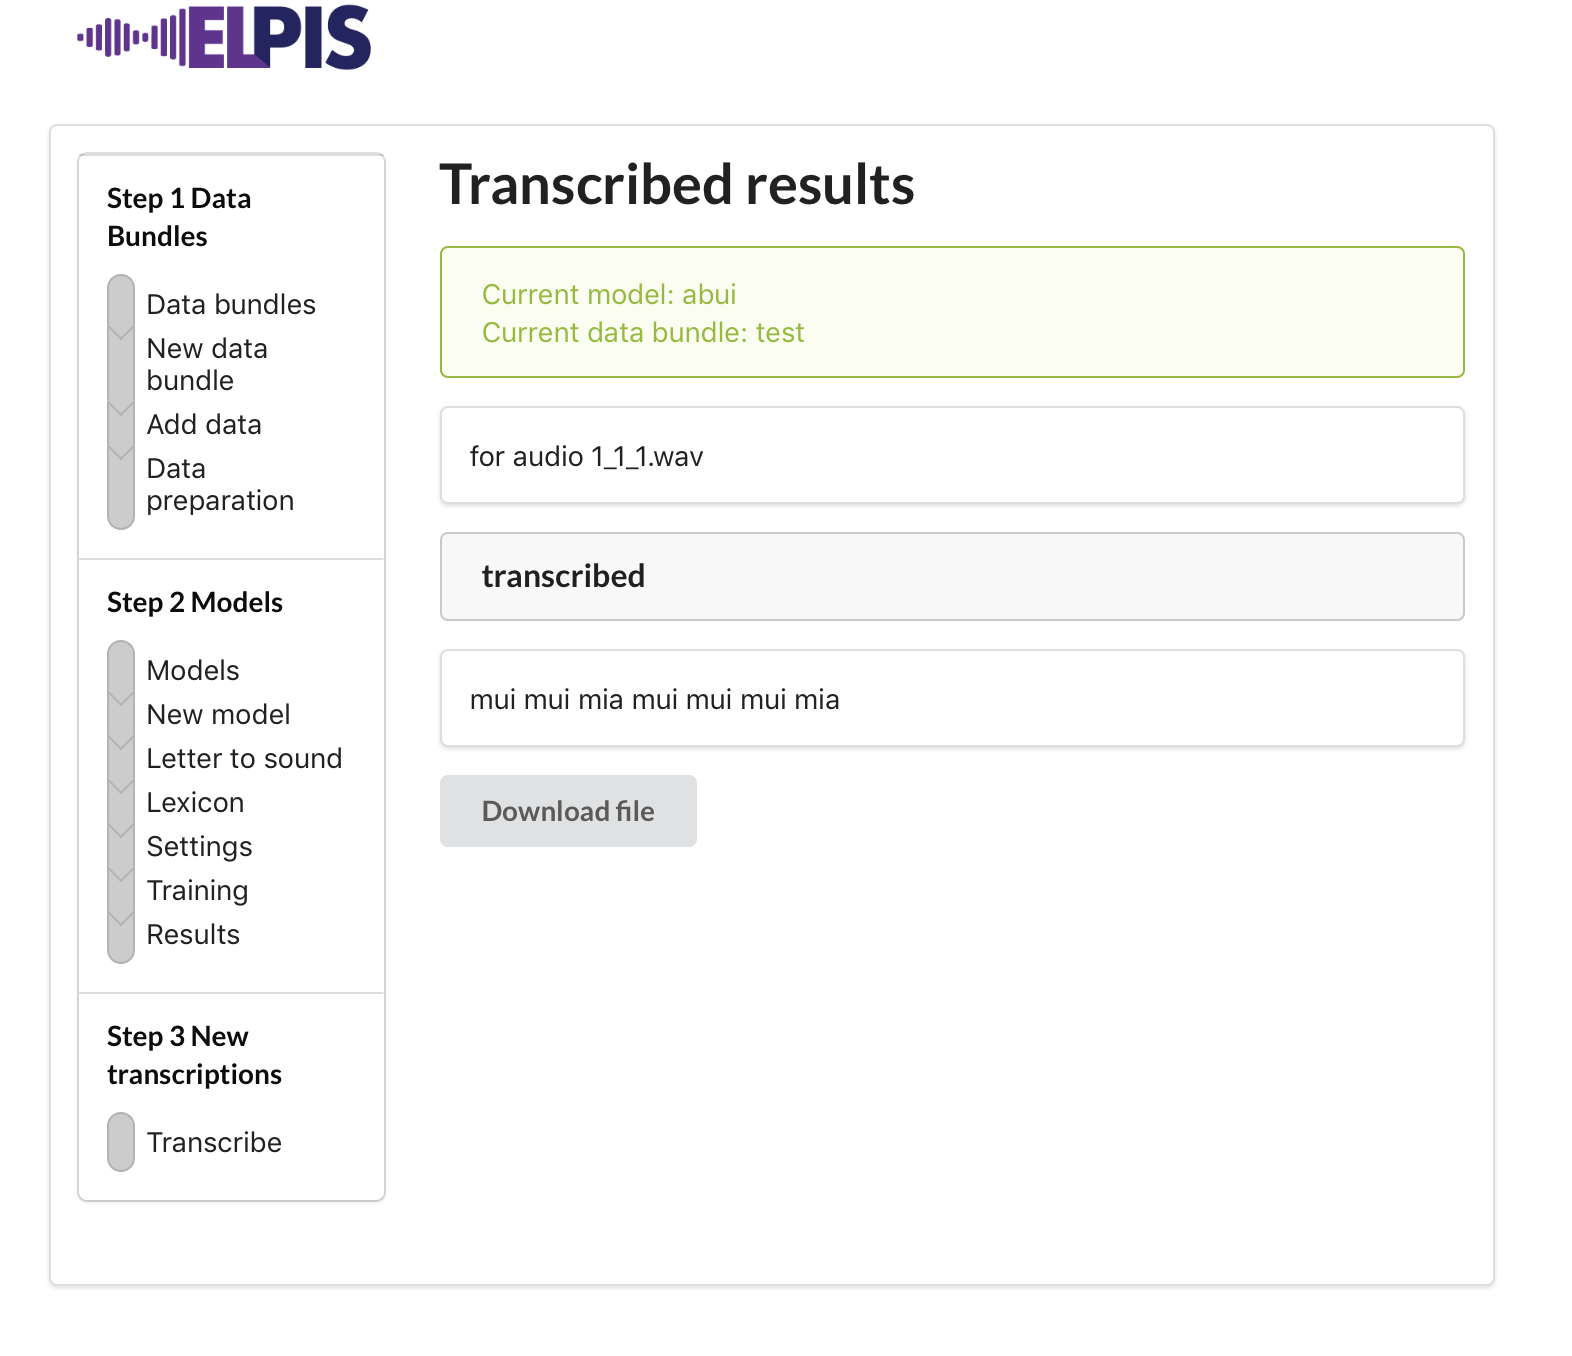
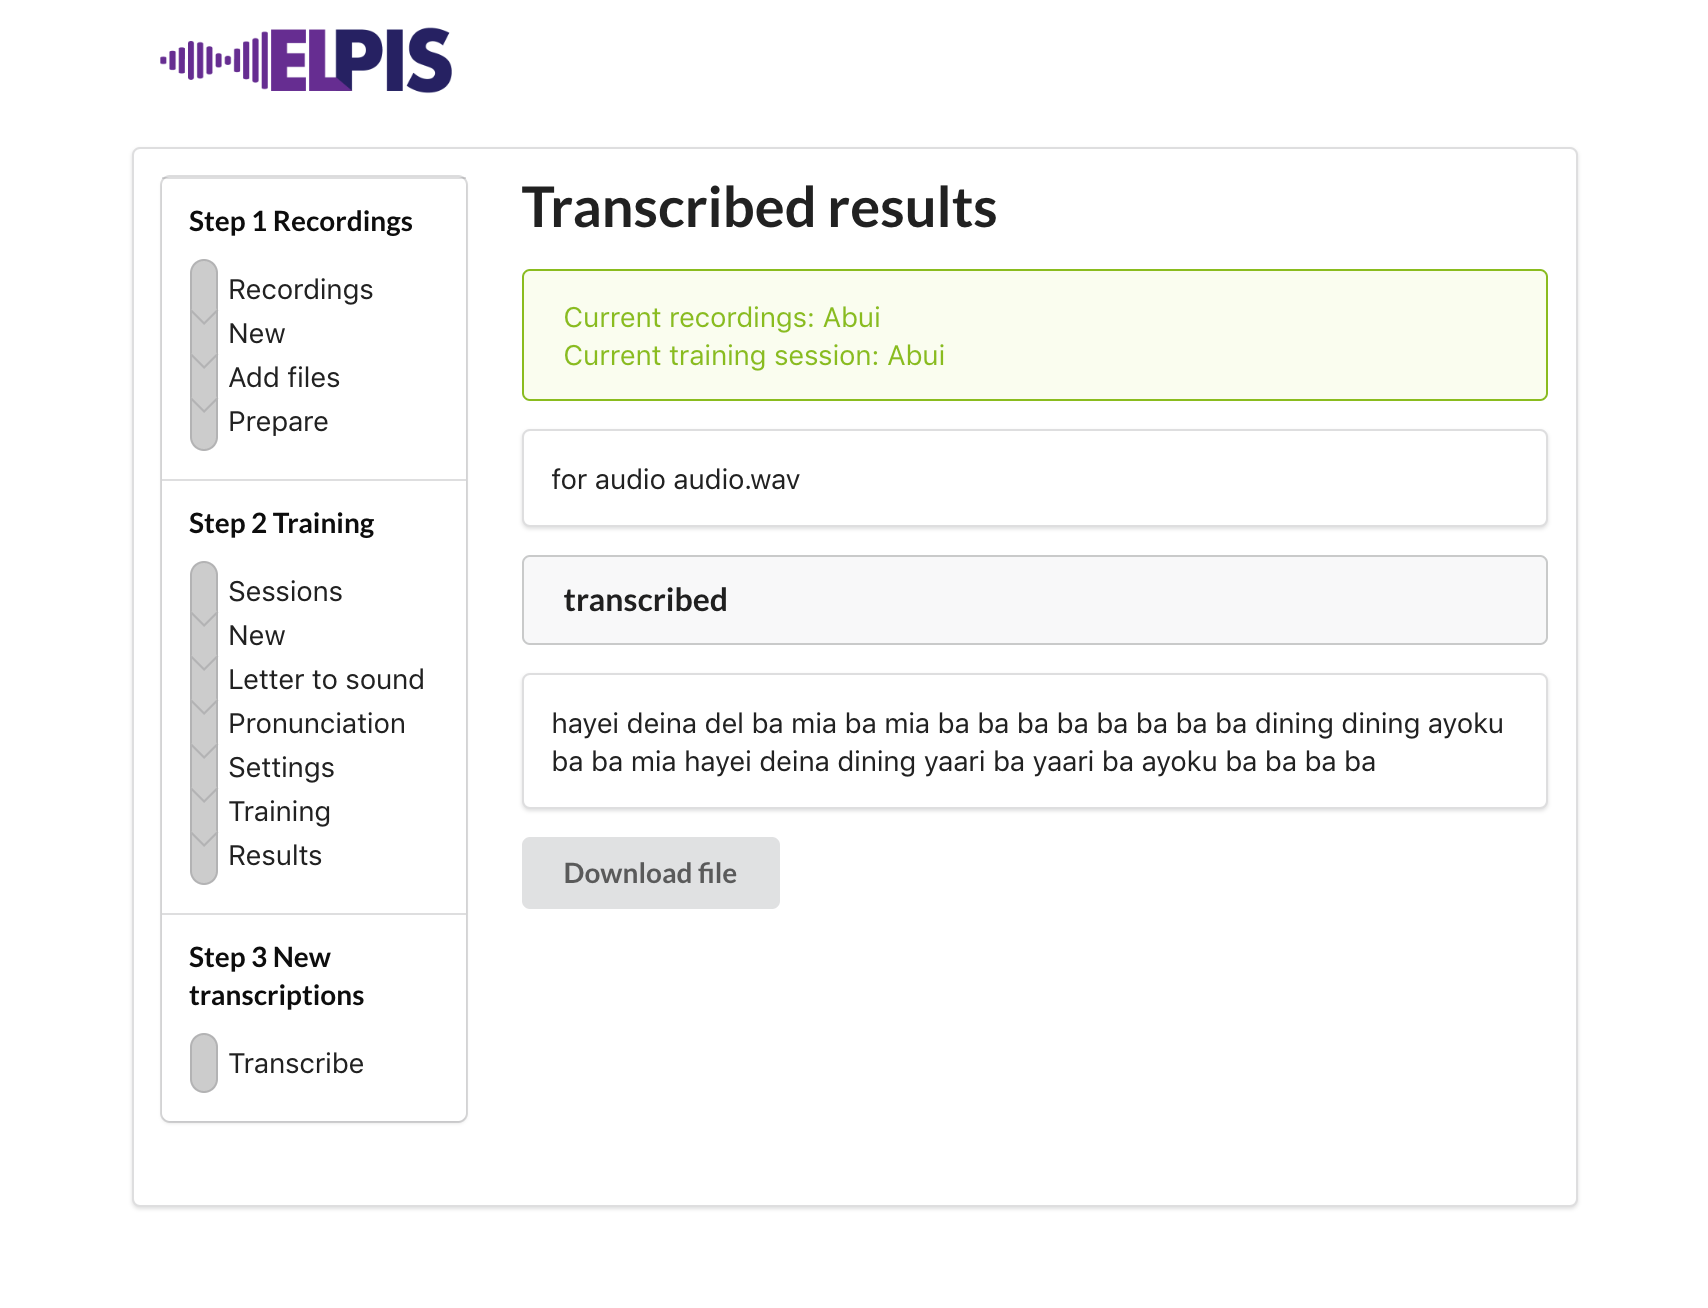
update lingo

diff --git a/2019-Puliima-Workshop.md b/2019-Puliima-Workshop.md
@@ -1,103 +1,95 @@
-## Overview
+# Overview
+
 The speech recognition (also called Speech to Text) process broadly involves steps of:
 
-**Organising data** that will be used to train the system
+- Organising files that will be used to train the system
+- Cleaning files
+- Making pronunciation rules
+- Acoustic, pronunciation and language training
 
-**Cleaning data** (normalisation)
+Then, using the trained system we can get a new transcription on un-transcribed recordings.
 
-Making **pronunciation rules**
-
-**Training** acoustic, pronunciation and language models
-
-Then, using these models to get a **new transcription** on un-transcribed data.
-
-
-Models are descriptions of the language content that the system can use to interpret audio that it hasn't heard before.
-
-> If you run the Docker version of Elpis, the processing all happens on your local computer, no data is uploaded to cloud servers. It is safe to use where your ethics or permissions prevent sharing or uploading your data. For the workshop, to save time installing Elpis, we have prepared some "cloud servers" with Elpis running. Using one of these is easier to get started, but does require that your data is uploaded to the internet.
 
 ---
 
-## Setup
 
-### 1) Get some training files
+# Setup
 
-Start with downloading some "toy data" to use during the workshop. [Download the Abui toy corpus here.](https://elpis.net.au/abui.zip)
+## 1) Get some training files
 
-### 2) Run Elpis
+Start with downloading some files to use during the workshop. [Download the Abui files here.](https://elpis.net.au/abui.zip)
 
-Get an address from the workshop spreadsheet [click here](https://bit.ly/2HfDNua), open a new web browser (Chrome or Firefox), paste the address into the location bar and press Enter/Return to start Elpis.
+## 2) Run Elpis
 
-
-### 3) When Elpis starts it looks like this.
-We'll make it look a bit more welcoming soon!
+- Get an address from the workshop spreadsheet [click here](https://bit.ly/2HfDNua).
+- Open a new web browser (Chrome or Firefox).
+- Paste the address into the location bar.
+- Press Enter/Return to start Elpis.
+- When Elpis starts it looks like this.
 
 ![Welcome](workshop/10-welcome.png)
 
+
 ---
 
-## A quick tour
 
-Click through to the *New Data Bundle* page.
+# Starting
 
-![New data](workshop/20-new-data.png)
+On the Elpis welcome page, click on *making a new group of recordings* to go to the *New group of recordings* page.
 
-There are three main steps, with sub-steps in each.
+![New files](workshop/20-new-data.png)
 
-1. Data Bundles
-2. Models
+There are three main steps in Elpis, with sub-steps in each.
+
+1. Recordings
+2. Training
 3. New transcriptions
 
-**Data bundles** is where we collect and clean the audio and text which we will train the models with.
+**Recordings** is where we collect and prepare the audio and text which we will train the tool with.
 
-**Models** is where “letter to sound” rules are applied to the data files to build a pronunciation dictionary, and then the acoustic and language models are trained.
+**Training** is where “letter to sound” rules are applied to the training files to build a pronunciation dictionary, and then the acoustic and language parts of the system are trained.
 
-**New transcriptions** is the place we go to use an existing model to obtain a first-pass transcription on new audio.
-
----
-
-## About the files you need
-
-The system trains with existing audio files and transcription files (also called data). Generally, the more data you can train with, the better the results. However, it’s not simply a matter of throwing everything you have into a bucket. Time spent cleaning and fine-tuning your existing transcriptions will have a good impact on your results.
-
-You will typically get better results with small data sets by using data from a common recording activity (also known as a domain), e.g. short sentences, or stories, or word-repetition exercises.
-
-For Elpis, the file format requirements are:
-
-a) WAV audio, preferably 44.1kHz mono but the system can convert stereo files and resample from different sample rates.
-
-b) Orthographic transcription of the audio. For today’s workshop, the interface is limited to using Elan transcriptions.
-
-> We have other tools that will convert TextGrid and Transcriber data and will integrate this in the near future. Please let us know about your own data formats so we can include them in future versions!
-
-c) Filenames of the transcription must match the audio filename.
-
-> We are working on different ways to deal with this but for now, these are best done manually.
-
-Transcriptions don’t need to be word level. Annotations at an utterance/phrase level are fine.
-
-Clean your transcriptions by looking through them and checking the following:
-
-- Standardise variation in spelling
-* Replace non-lexical number forms, shorthand forms and abbreviations with full lexical forms. For example, replace ‘9’ with ‘nine’.
-- For more cleaning tips, see the [Data preparation](https://github.com/CoEDL/elpis/wiki/Data-preparation) wiki page.
+**New transcriptions** is the place we go to use an existing training session to obtain a first-pass transcription on new audio.
 
 
-You can also add text files that contain words in the language, that don't have matching audio. These will be used to improve the system's language model.
+Give your new bundle of recordings a name, then click Next.
 
-**When you are happy with your data,  make a New Data Bundle and then Add data.**
+
+## Add files
+
+On the *Add files* page, click inside the dotted area and go to where you downloaded the Abui files. Open the training folder, select all the *wav* and *eaf* files and add them.
 
 ![Add files](workshop/30-add-files.png)
 
-Check how the text has been cleaned on the **Data preparation** page.
+Click Next
 
-![Prepare data](workshop/40-prepare.png)
+
+## Prepare
+
+On the *Prepare* page we can see how Elpis has read your training transcription files.
+
+![Prepare files](workshop/40-prepare.png)
+
+Click Next
+
 
 ---
 
-## Letter to sound preparation
 
-The **letter to sound** file is a text file you create, of rules mapping your orthography into phonemic transcription. It will be used to build a pronunciation lexicon for your data set.
+# Training sessions
+
+Now our training files have been prepared, we can start a new training session. Give it a name then click Next.
+
+![New model](workshop/50-new-model.png)
+
+
+## Letter to sound rules
+
+Upload the letter to sound rules from the Abui files folder. Elpis will use this to build a pronunciation dictionary for the training transcriptions.
+
+![Letter to sound](workshop/60-l2s.png)
+
+The **letter to sound** file is a text file of rules mapping your orthography into phonemic transcription. It will be used to build a pronunciation dictionary for your training files.
 
 It is formatted in two columns, space separated. Left column is all the characters in your corpus. The right column is a symbol representing the sound. You can use IPA or SAMPA for the right column. Comments can be written in the file with a # starting the comment line. For example,
 
@@ -113,19 +105,16 @@ ng ŋ
 r r
 ```
 
-**After preparing your letter-to-sound file, make a New Model**
+Click Next
 
-![New model](workshop/50-new-model.png)
 
-**Then upload the Letter to sound file.**
+## Pronunciation
 
-![Letter to sound](workshop/60-l2s.png)
-
-This will build a pronunciation lexicon (also known as a pronunciation dictionary). Look at it on the **Lexicon** step.
+On the Pronunciation dictionary page we can see how Elpis has used the letter to sound rules to work out how to pronounce the words in our training transcriptions. You may need to correct some of them!
 
 ![Lexicon](workshop/70-lexicon.png)
 
-The `!SIL` and `<unk>` lines are used to handle silence and unknown words.
+> The `!SIL` and `<unk>` lines are used to handle silence and unknown words.
 
 Check words that have been transcribed with consecutive matching characters. Do they represent one sound or two? If only one, add a line to your `letter-to-sound.txt` file, mapping the consecutive characters to a single symbol and rebuild the lexicon.
 
@@ -137,34 +126,30 @@ ng ŋ
 n n
 ```
 
----
 
-## Training
+## Settings
 
-Now your training data has been uploaded and the lexicon has been built, you are ready to start the training process.
 
-On the **Settings** step, you can set the n-gram value. A unigram (1) value will train the model on each word. A trigram (3) value with train the model by words with their neighbours.
+Here you can adjust settings which affect the tool's performance. A unigram (1) value will train the model on each word. A trigram (3) value with train the model by words with their neighbours.
 
 ![Settings](workshop/80-settings.png)
 
-Got to the **Training** step to kick off the training process. Press Start training to begin.
+
+## Training
+
+Got to the **Training** page to kick off the training process. Press *Start training* to begin.
 
 ![Ready](workshop/90-training.png)
 
-At the moment we don’t have any indication of how the training is progressing.. we are planning on showing this in two ways - one friendly way of the sub-steps in the training being highlighted as it happens, and also showing the output from the Kaldi engine.
-
-![Training](workshop/100-training.png)
 
 When it has finished, we should see **trained** in the middle of the page.
 
 ![Trained](workshop/110-trained.png)
 
----
 
 ## Results
 
-
-When training is done, go to the Results page to see the stats for this model. These results tell us how the training went, and helps us to understand what happened in the training process. These numbers are **scored** by comparing the words in one of the original transcriptions against the machine's version.
+When training is done, go to the Results page to see the results for this training session. These results tell us how the training went, and help us to understand what happened in the training process. These numbers are **scored** by comparing the words in one of the original transcriptions against the computer's version.
 
 The results are:
 
@@ -180,7 +165,7 @@ The results are:
 
 ## Making a new transcription
 
-Now the model has been trained, on the **New Transcriptions** step, we can **Choose a file**. Then decide whether you want the transcription in text format or an Elan file with the words aligned. When you click a format button, the transcribing starts. The process can take time, depending on how long your audio is.
+Now the training has been done, on the **New Transcriptions** step, we can **Choose a file**. Then decide whether you want the transcription in text format or an Elan file with the words aligned. When you click a format button, the transcribing starts. The process can take time, depending on how long your audio is.
 
 > We are working on being able to handle long audio better. For now, just use a single utterance. Stay tuned for updates on this feature.
 
@@ -200,3 +185,36 @@ Listen in Elan.
 
 ![Elan](workshop/150-elan.png)
 
+
+
+---
+
+
+# More information about training files
+
+The system trains with existing audio recordings and transcriptions. Generally, the more hours of training recordings you can train with, the better the results. However, it’s not simply a matter of throwing everything you have into a bucket. Time spent cleaning and fine-tuning your existing transcriptions will have a good impact on your results.
+
+You will typically get better results with few hours of files by using recordings from a common recording activity, e.g. short sentences, or stories, or word-repetition exercises.
+
+For Elpis, the file format requirements are:
+
+a) WAV audio, preferably 44.1kHz mono but the system can convert stereo files and resample from different sample rates.
+
+b) Orthographic transcription of the audio. For today’s workshop, the interface is using Elan transcriptions, soon we will be able to use text files.
+
+> We have other tools that will convert TextGrid and Transcriber files and will integrate this in the near future. Please let us know about your own file formats so we can include them in future versions!
+
+c) Filenames of the transcription must match the audio filename.
+
+> We are working on different ways to deal with this but for now, these are best done manually.
+
+Transcriptions don’t need to be word level. Annotations at an utterance/phrase level are fine.
+
+Clean your transcriptions by looking through them and checking the following:
+
+- Standardise variation in spelling
+* Replace non-lexical number forms, shorthand forms and abbreviations with full lexical forms. For example, replace ‘9’ with ‘nine’.
+- For more cleaning tips, see the [Data preparation](https://github.com/CoEDL/elpis/wiki/Data-preparation) wiki page.
+
+
+You can also add text files that contain words in the language, that don't have matching audio. These will be used to improve the system's language model.
